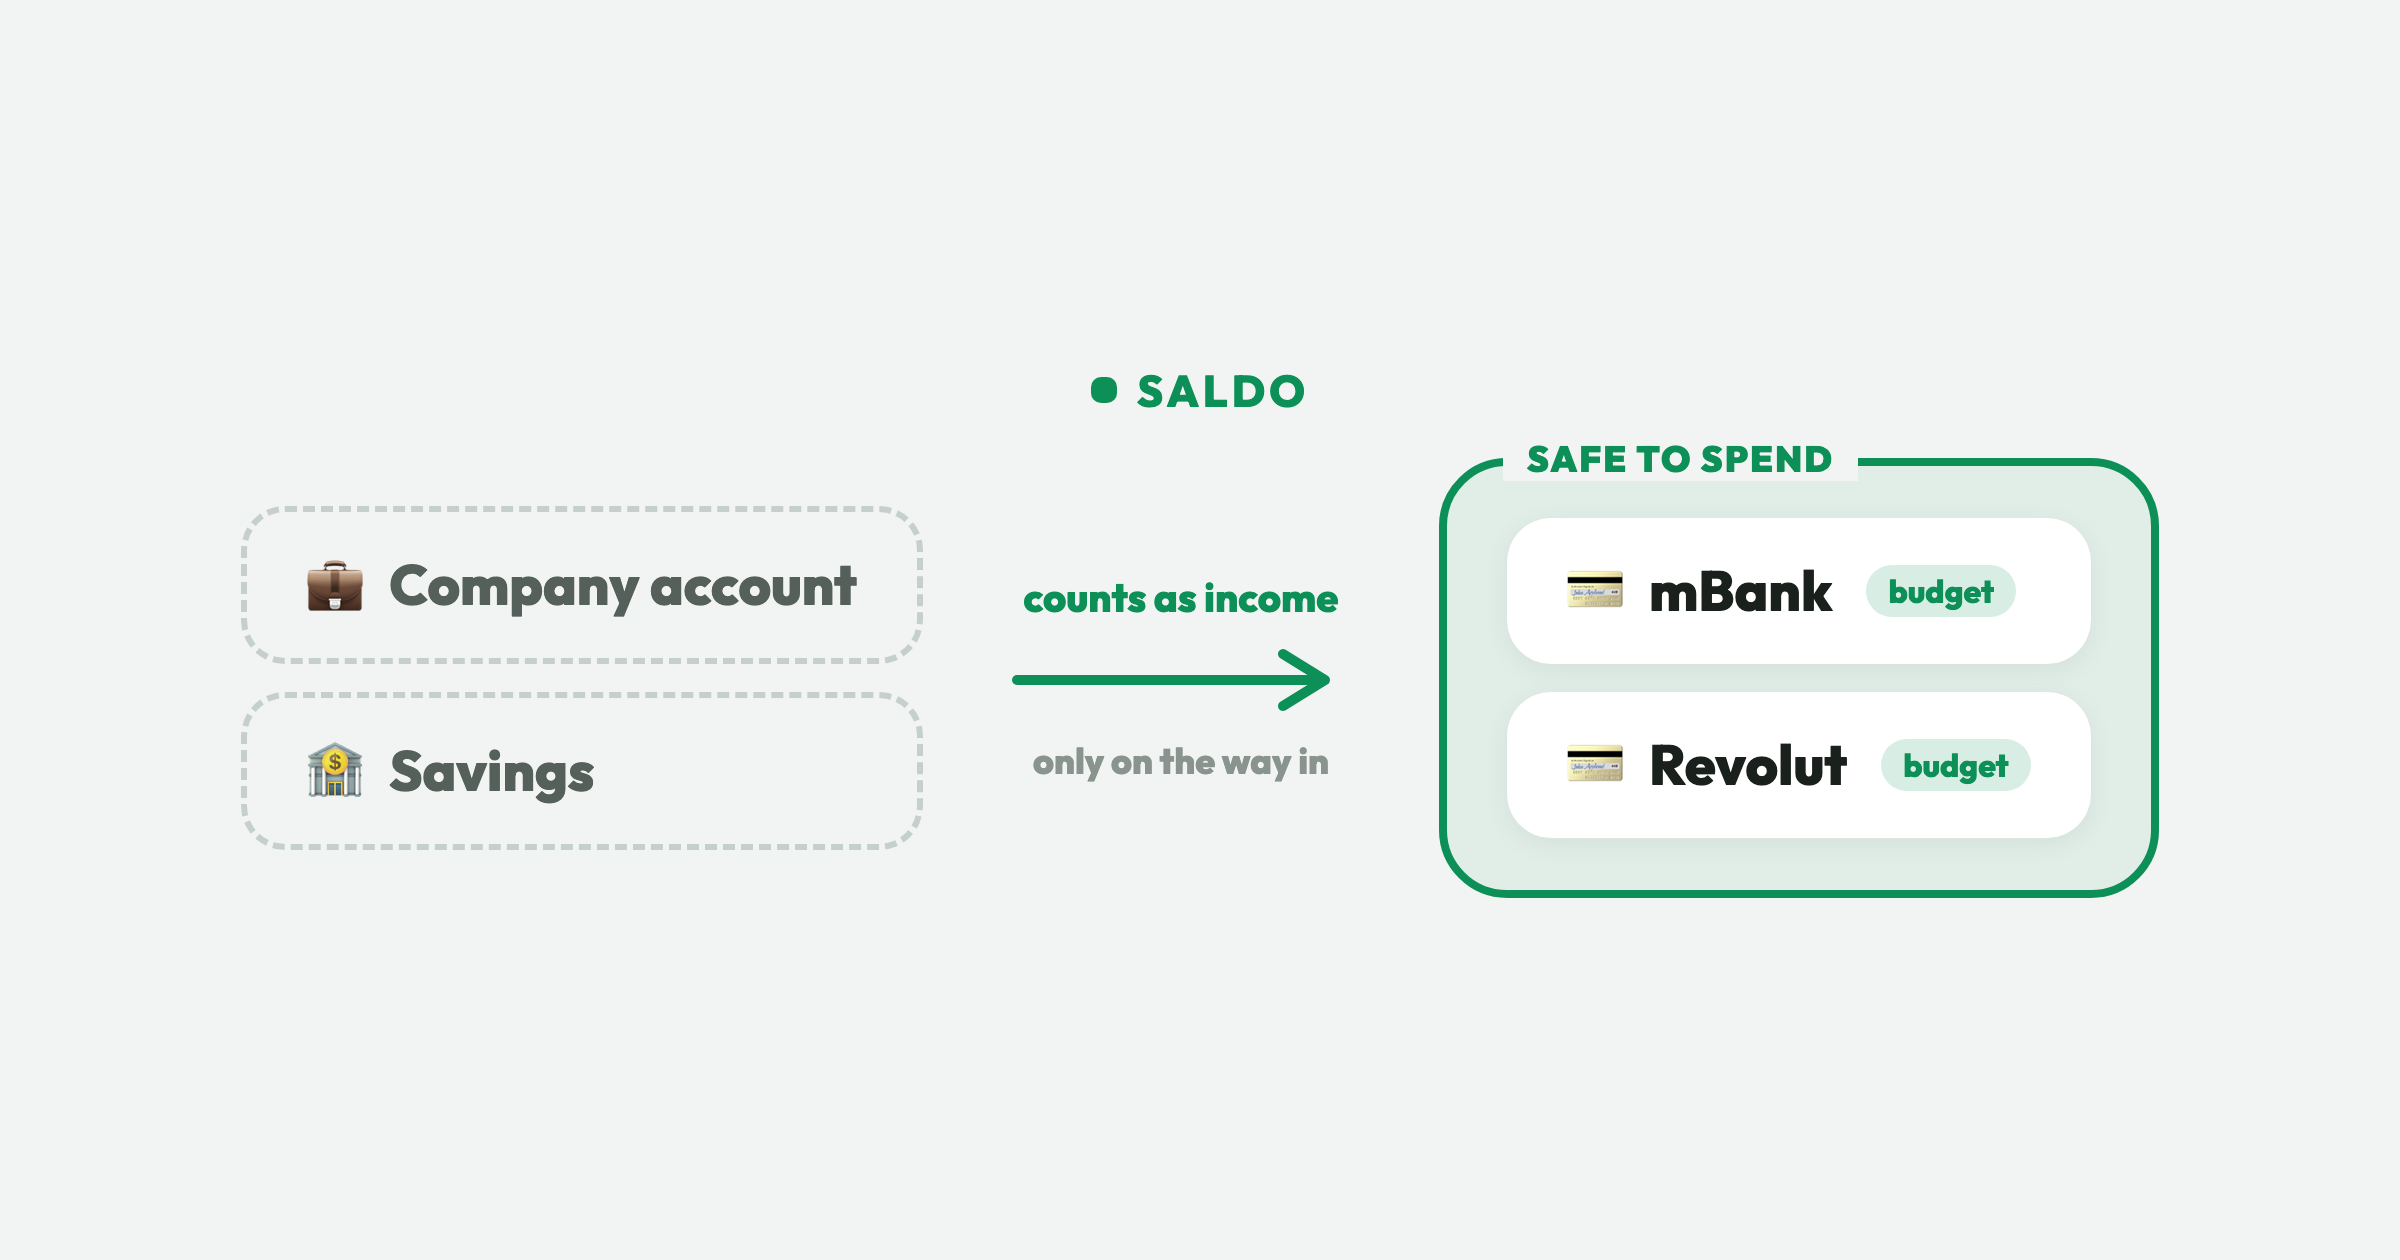
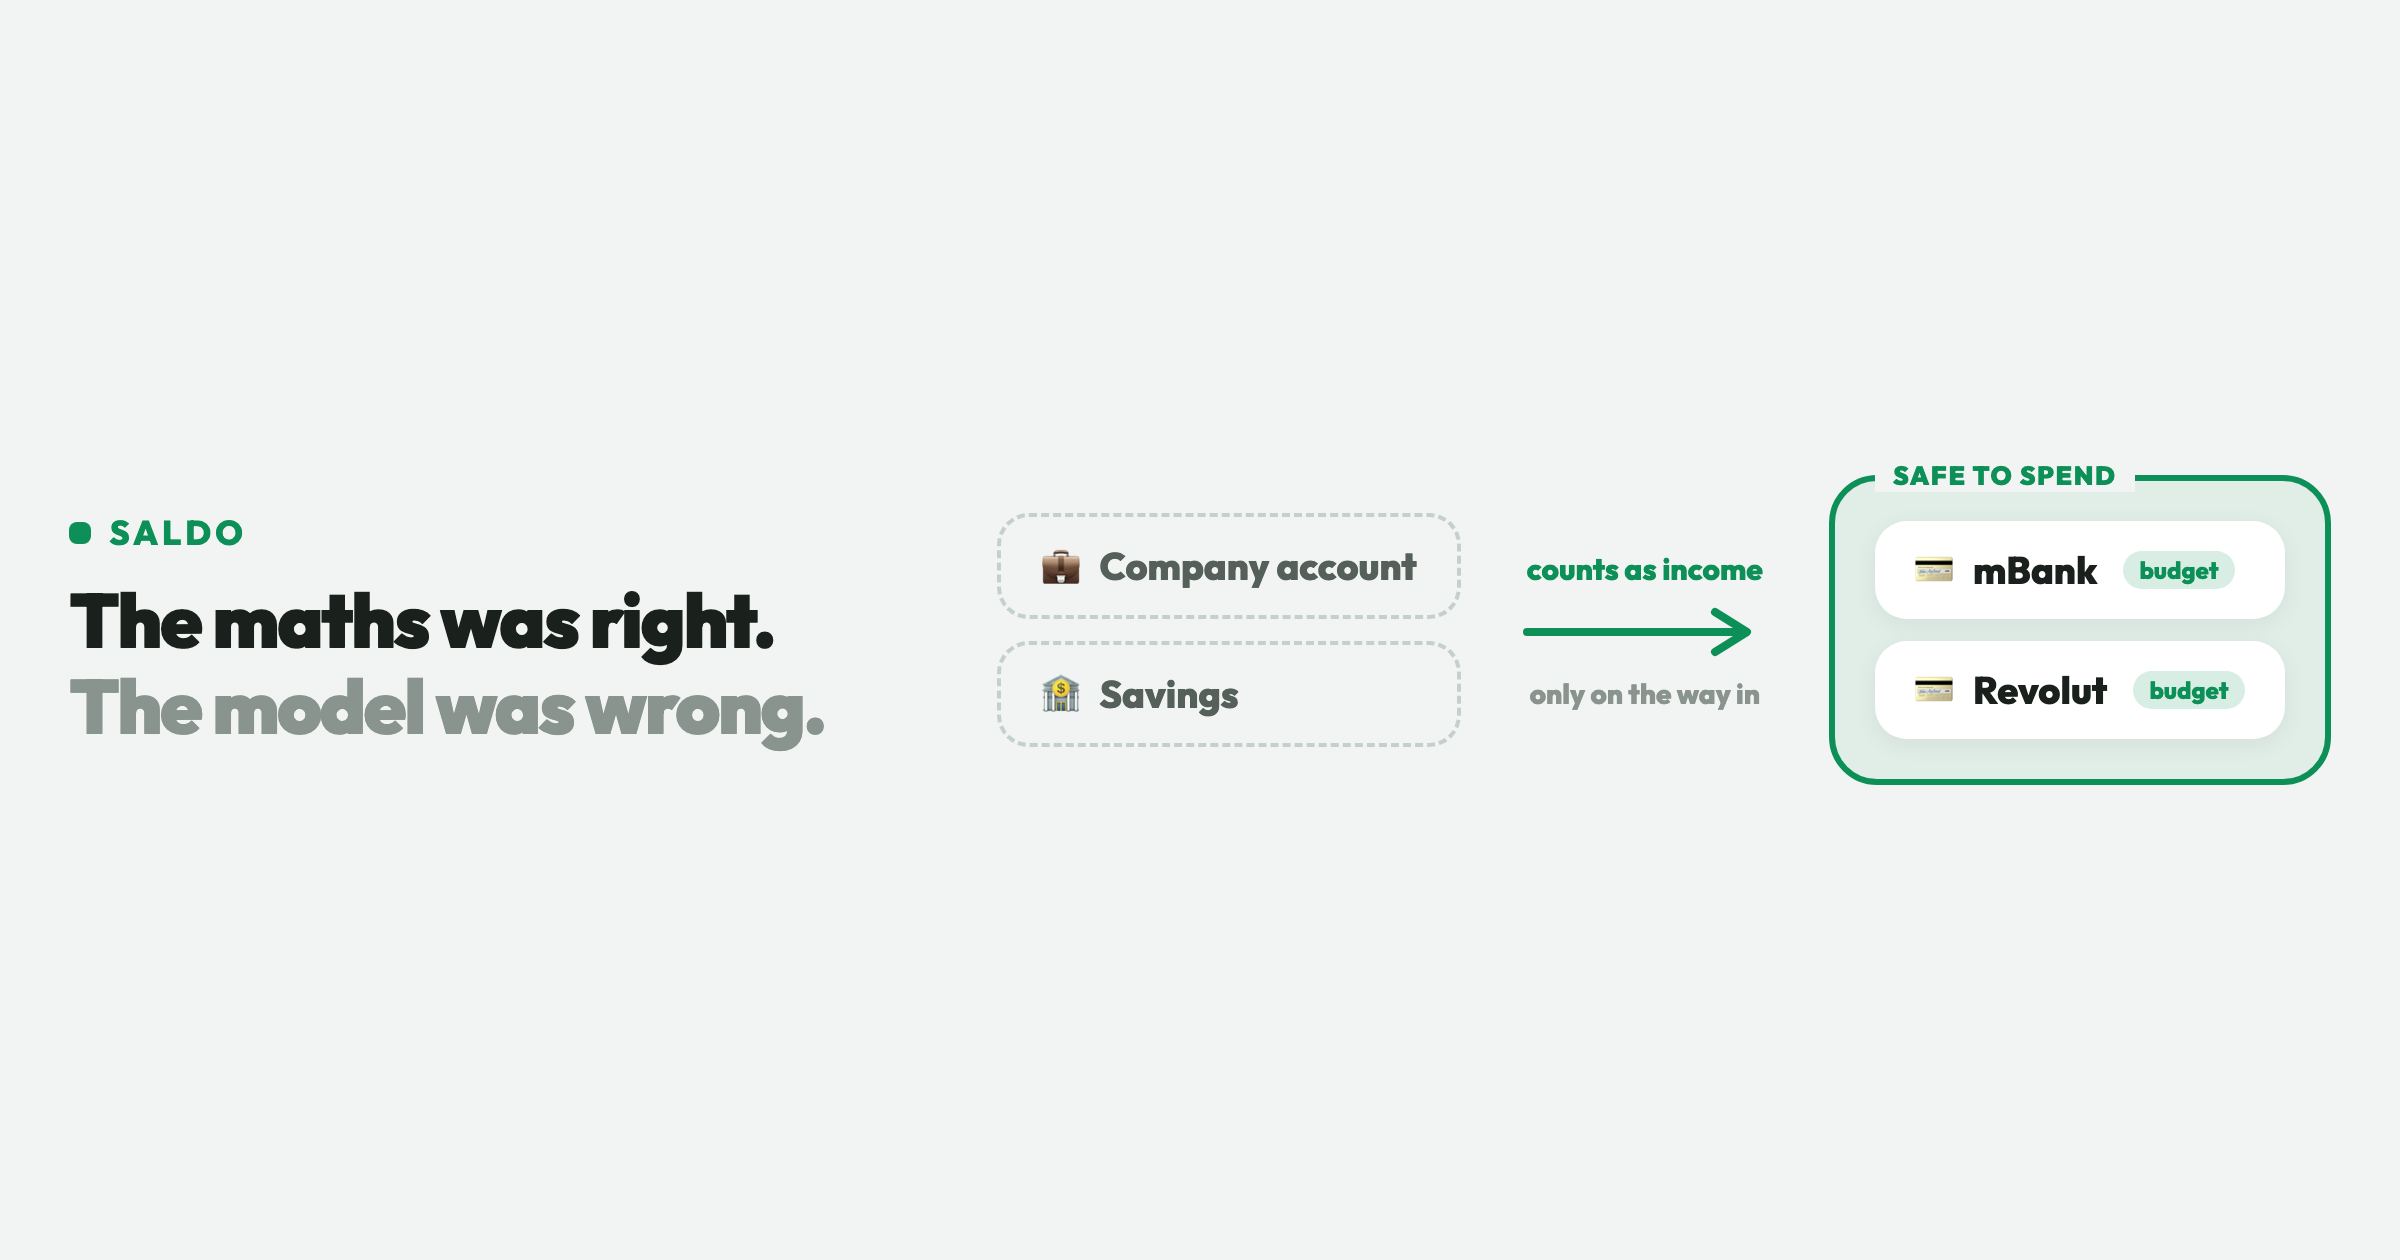
Featured image keeps its headline inside the card crop
The blog cards centre-crop the image, so a headline above the diagram
lost its top line. It now sits beside the diagram instead, inside the
band both the featured and two-column crops keep.

Also says plainly in the post that the figures, expenses and bank names
in the screenshots are examples.

diff --git a/blog-shots/featured.html b/blog-shots/featured.html
@@ -4,12 +4,10 @@
 <link rel="preconnect" href="https://fonts.googleapis.com">
 <link href="https://fonts.googleapis.com/css2?family=Outfit:wght@400;500;600;700;800;900&display=swap" rel="stylesheet">
 <style>
-  /* 1200x630 for Open Graph, but the blog's own cards crop it to a CENTRE BAND:
-     roughly 4.35:1 on the featured card and 2.8:1 on the two-column cards. So
-     everything that matters lives inside the middle ~260px, vertically centred,
-     and nothing sits near the top or bottom edge where it would be sliced.
-     No headline either: the card template already prints the title underneath,
-     so the picture only has to carry the idea.
+  /* 1200x630 for Open Graph, but the blog's own cards centre-crop it: roughly
+     the middle 44% of the height on the featured card, 68% on the two-column
+     cards. So the headline sits BESIDE the diagram rather than above it, and
+     the whole composition lives in the middle ~250px where both crops keep it.
      Tokens from the app's src/style.css. Add ?dark for the dark variant. */
   .light {
     --page:#f1f4f2; --card:#ffffff; --ink:#1a211d; --ink2:#55605a; --muted:#8a948e;
@@ -21,31 +19,37 @@
   }
   * { margin:0; padding:0; box-sizing:border-box; }
   body { font-family:'Outfit', system-ui, sans-serif; background:var(--page); color:var(--ink); }
-  .card { width:1200px; height:630px; display:flex; flex-direction:column;
-    align-items:center; justify-content:center; gap:20px; overflow:hidden; }
-  .brand { display:flex; align-items:center; gap:10px; font-size:22px; font-weight:800;
-    color:var(--accent); letter-spacing:2px; }
-  .brand .dot { width:13px; height:13px; border-radius:5px; background:var(--accent); }
-  .stage { display:flex; align-items:center; gap:44px; }
-  .col { display:grid; gap:14px; }
-  .outside .chip { background:transparent; border:3px dashed var(--dash); color:var(--ink2); box-shadow:none; }
-  .chip { display:flex; align-items:center; gap:13px; background:var(--card); border-radius:22px;
-    padding:18px 30px; font-size:28px; font-weight:800; box-shadow:0 3px 14px var(--shadow); white-space:nowrap; }
-  .chip .em { font-size:28px; }
-  .pill { font-size:16px; font-weight:800; border-radius:999px; padding:3px 11px; margin-left:4px;
+  .card { width:1200px; height:630px; padding:0 40px; display:flex;
+    align-items:center; justify-content:center; gap:40px; overflow:hidden; }
+  .say { width:424px; flex-shrink:0; }
+  .brand { display:flex; align-items:center; gap:9px; font-size:17px; font-weight:800;
+    color:var(--accent); letter-spacing:2px; margin-bottom:12px; }
+  .brand .dot { width:11px; height:11px; border-radius:4px; background:var(--accent); }
+  h1 { font-size:38px; font-weight:900; letter-spacing:-1.1px; line-height:1.12; white-space:nowrap; }
+  h1 .faint { color:var(--muted); }
+  .stage { display:flex; align-items:center; gap:30px; }
+  .col { display:grid; gap:11px; }
+  .outside .chip { background:transparent; border:2px dashed var(--dash); color:var(--ink2); box-shadow:none; }
+  .chip { display:flex; align-items:center; gap:10px; background:var(--card); border-radius:16px;
+    padding:12px 20px; font-size:19px; font-weight:800; box-shadow:0 3px 12px var(--shadow); white-space:nowrap; }
+  .chip .em { font-size:19px; }
+  .pill { font-size:12px; font-weight:800; border-radius:999px; padding:2px 8px; margin-left:3px;
     background:color-mix(in srgb, var(--accent) 16%, var(--card)); color:var(--accent); }
-  .cross { display:flex; flex-direction:column; align-items:center; gap:10px; }
-  .cross .label { font-size:20px; font-weight:800; color:var(--accent); white-space:nowrap; }
-  .cross .label.quiet { color:var(--muted); font-size:18px; }
+  .cross { display:flex; flex-direction:column; align-items:center; gap:7px; }
+  .cross .label { font-size:15px; font-weight:800; color:var(--accent); white-space:nowrap; }
+  .cross .label.quiet { color:var(--muted); font-size:14px; }
   .cross svg path { stroke:var(--accent); }
-  .budget { border:4px solid var(--accent); border-radius:34px; padding:26px 30px;
+  .budget { border:3px solid var(--accent); border-radius:24px; padding:20px;
     background:color-mix(in srgb, var(--accent) var(--fill), var(--page)); position:relative; }
-  .budget .cap { position:absolute; top:-15px; left:28px; background:var(--page); padding:0 12px;
-    font-size:18px; font-weight:900; color:var(--accent); letter-spacing:1px; }
+  .budget .cap { position:absolute; top:-11px; left:20px; background:var(--page); padding:0 9px;
+    font-size:13px; font-weight:900; color:var(--accent); letter-spacing:.8px; }
 </style>
 <body class="light">
 <div class="card">
-  <div class="brand"><span class="dot"></span>SALDO</div>
+  <div class="say">
+    <div class="brand"><span class="dot"></span>SALDO</div>
+    <h1>The maths was right.<br><span class="faint">The model was wrong.</span></h1>
+  </div>
   <div class="stage">
     <div class="col outside">
       <div class="chip"><span class="em">💼</span>Company account</div>
@@ -53,9 +57,9 @@
     </div>
     <div class="cross">
       <div class="label">counts as income</div>
-      <svg width="170" height="38" viewBox="0 0 170 38" fill="none">
-        <path d="M3 19 H150" stroke-width="5" stroke-linecap="round"/>
-        <path d="M136 6 L157 19 L136 32" stroke-width="5" stroke-linecap="round" stroke-linejoin="round" fill="none"/>
+      <svg width="124" height="30" viewBox="0 0 124 30" fill="none">
+        <path d="M3 15 H108" stroke-width="4" stroke-linecap="round"/>
+        <path d="M97 5 L113 15 L97 25" stroke-width="4" stroke-linecap="round" stroke-linejoin="round" fill="none"/>
       </svg>
       <div class="label quiet">only on the way in</div>
     </div>

diff --git a/src/content/blog/saldo-the-model-was-wrong.md b/src/content/blog/saldo-the-model-was-wrong.md
@@ -36,7 +36,7 @@ Only inbound crossings count. Money going the other way, out to a savings accoun
 
 ![The home screen, with the budget boundary visible: the income line shows how much of it crossed in, and each account says whether it counts](/blog/images/saldo-home-budget-boundary.png)
 
-All the numbers in these screenshots are invented, by the way. I'm happy to show you the app, slightly less happy to show you my bank balance.
+Everything in these screenshots is an example, by the way: the numbers, the expenses, the account and bank names, all of it. I'm happy to show you the app, slightly less happy to show you my actual bank balance.
 
 Showing the boundary in the interface mattered more than I expected. A little green `budget` tag next to the accounts that feed safe to spend turns an invisible rule into something you can check at a glance, and it's the thing that would have saved me the original confusion.
 
